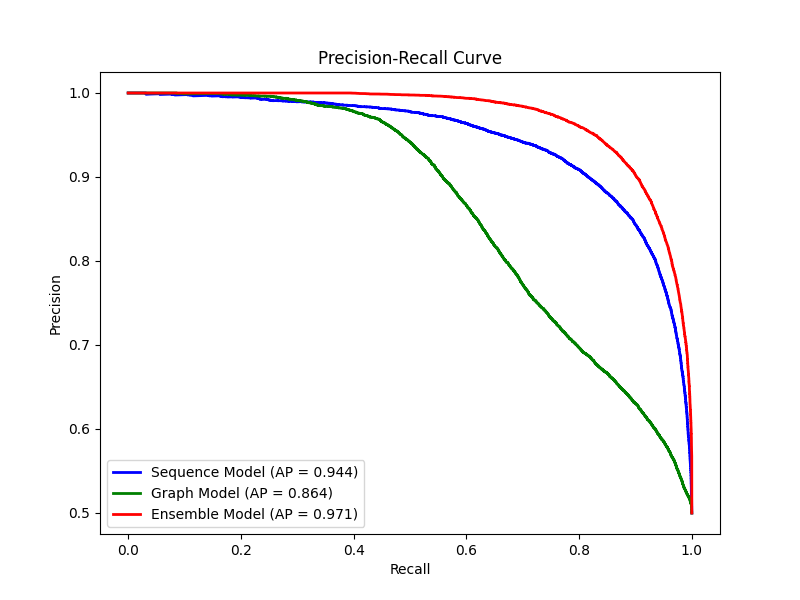
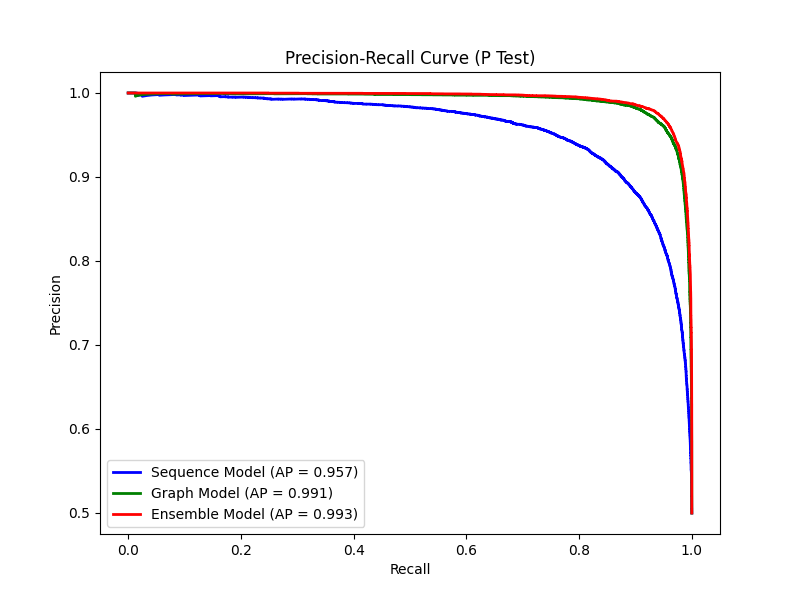
fix(train): rebuild graph with all positive edges for transductive link prediction

diff --git a/src/training/train_graph_model.py b/src/training/train_graph_model.py
@@ -12,7 +12,7 @@ sys.path.append(os.path.abspath(os.path.join(os.path.dirname(__file__), '../../'
 from src.models.graph_model import GATLinkPredictor
 from src.utils.paths import PROCESSED_DATA_DIR, PROJECT_ROOT, CHECKPOINT_DIR, MODELS_DIR
 
-CHECKPOINT_VERSION = "v2_encode_once"
+CHECKPOINT_VERSION = "v3_full_graph"
 
 
 def get_model_config(vram_gb: float) -> dict:
@@ -24,40 +24,58 @@ def get_model_config(vram_gb: float) -> dict:
         return {"hidden_channels": 64, "heads": 4, "dropout": 0.3, "profile": "small"}
 
 
-def drop_edge(edge_index: torch.Tensor, drop_rate: float = 0.4) -> torch.Tensor:
-    """Randomly drop edges from the message-passing graph for regularization."""
+def drop_edge(edge_index: torch.Tensor, drop_rate: float = 0.3) -> torch.Tensor:
     mask = torch.rand(edge_index.size(1), device=edge_index.device) > drop_rate
     return edge_index[:, mask]
 
 
-def build_positive_edge_index(train_df, node_mapping, device):
-    """Build message-passing graph from ONLY positive training interactions."""
-    pos_df = train_df[train_df["label"] == 1]
-    mp_src, mp_dst = [], []
-    for _, row in pos_df.iterrows():
-        p1, p2 = row["protein1"], row["protein2"]
-        if p1 in node_mapping and p2 in node_mapping:
-            u, v = node_mapping[p1], node_mapping[p2]
-            mp_src.extend([u, v])
-            mp_dst.extend([v, u])
-    return torch.tensor([mp_src, mp_dst], dtype=torch.long, device=device)
+def build_complete_positive_graph(node_mapping):
+    """
+    Build message-passing graph from ALL positive interactions across all splits.
+    
+    This is standard transductive link prediction:
+    - Graph structure includes all known interactions
+    - Supervision edges (train/val) are separate
+    - Model learns to distinguish real interactions from random pairs
+    """
+    all_src, all_dst = [], []
+    seen = set()
+
+    for csv_name in ["train.csv", "val.csv", "test.csv"]:
+        path = PROCESSED_DATA_DIR / csv_name
+        if path.exists():
+            df = pd.read_csv(path)
+            pos_df = df[df["label"] == 1]
+            for _, row in pos_df.iterrows():
+                p1, p2 = row["protein1"], row["protein2"]
+                if p1 in node_mapping and p2 in node_mapping:
+                    u, v = node_mapping[p1], node_mapping[p2]
+                    pair = (min(u, v), max(u, v))
+                    if pair not in seen:
+                        seen.add(pair)
+                        all_src.extend([u, v])
+                        all_dst.extend([v, u])
+
+    edge_index = torch.tensor([all_src, all_dst], dtype=torch.long)
+    print(f"  Complete graph: {len(seen)} undirected edges "
+          f"({edge_index.size(1)} directed)")
+    return edge_index
 
 
 def train(epochs: int = 100, lr: float = 0.001, graph_path: str = None,
           edge_batch_size: int = 16384):
     """
-    Train GAT Link Predictor.
+    Train GAT Link Predictor (transductive link prediction).
 
-    Key design decisions:
-    1. Graph cleaned to positive-only edges (old pipeline included negatives)
-    2. Encode ALL nodes ONCE per epoch (not 40x per batch)
-    3. DropEdge prevents trivial detection of direct edges
-    4. Gradient accumulation: classifier gradients accumulated across batches,
-       then back-propagated through encoder in one pass
+    Key design:
+    1. Message-passing graph uses ALL positive edges from train+val+test
+       (standard transductive setup — graph structure is fully known)
+    2. Supervision edges split into train/val for classifier training
+    3. DropEdge regularization prevents trivial edge detection
+    4. Encode ALL nodes ONCE per epoch, batch the edge scoring
     """
     device = torch.device("cuda" if torch.cuda.is_available() else "cpu")
 
-    # ── GPU config ───────────────────────────────────────────────────────
     if device.type == "cuda":
         total_mem_gb = torch.cuda.get_device_properties(0).total_memory / (1024 ** 3)
         gpu_name = torch.cuda.get_device_name(0)
@@ -87,35 +105,34 @@ def train(epochs: int = 100, lr: float = 0.001, graph_path: str = None,
         return
 
     data = torch.load(graph_path, weights_only=False)
-    original_edges = data.num_edges
-    print(f"Loaded graph: {data.num_nodes} nodes, {original_edges} edges")
+    print(f"Loaded graph: {data.num_nodes} nodes, {data.num_edges} edges")
 
-    # ── Load splits and mapping ──────────────────────────────────────────
-    print("Loading datasets...")
-    train_df = pd.read_csv(PROCESSED_DATA_DIR / "train.csv")
-    val_df = pd.read_csv(PROCESSED_DATA_DIR / "val.csv")
-
+    # ── Load mapping ─────────────────────────────────────────────────────
     mapping_path = str(graph_path).replace(".pt", "_mapping.pt")
     if not os.path.exists(mapping_path):
         print("Node mapping not found.")
         return
     node_mapping = torch.load(mapping_path, weights_only=False)
 
-    # ── Rebuild graph: positive-only edges ───────────────────────────────
-    clean_edge_index = build_positive_edge_index(train_df, node_mapping, "cpu")
-    data.edge_index = clean_edge_index
+    # ── Rebuild graph with ALL positive edges (transductive) ─────────────
+    print("Building complete positive graph from all splits...")
+    clean_edge_index = build_complete_positive_graph(node_mapping)
 
-    if clean_edge_index.size(1) != original_edges:
-        print(f"  Cleaned graph: {clean_edge_index.size(1)} edges "
-              f"(removed {original_edges - clean_edge_index.size(1)} negative edges)")
+    if clean_edge_index.size(1) != data.num_edges:
+        print(f"  Updated: {data.num_edges} -> {clean_edge_index.size(1)} edges")
+        data.edge_index = clean_edge_index
         torch.save(data, graph_path)
-        print(f"  Saved cleaned graph → {graph_path}")
+        print(f"  Saved updated graph -> {graph_path}")
     else:
-        print(f"  Graph already clean: {clean_edge_index.size(1)} edges")
+        print(f"  Graph already correct: {data.num_edges} edges")
 
     data = data.to(device)
 
-    # ── Build supervision edge indices ───────────────────────────────────
+    # ── Load splits ──────────────────────────────────────────────────────
+    print("Loading supervision edges...")
+    train_df = pd.read_csv(PROCESSED_DATA_DIR / "train.csv")
+    val_df = pd.read_csv(PROCESSED_DATA_DIR / "val.csv")
+
     def get_edge_label_index(df):
         src, dst, labels = [], [], []
         for _, row in df.iterrows():
@@ -140,7 +157,7 @@ def train(epochs: int = 100, lr: float = 0.001, graph_path: str = None,
     num_val_batches = (num_val + edge_batch_size - 1) // edge_batch_size
 
     print(f"Supervision: {num_train} train / {num_val} val edges")
-    print(f"Edge batch size: {edge_batch_size} → {num_train_batches} train batches")
+    print(f"Edge batch size: {edge_batch_size} -> {num_train_batches} train batches")
 
     # ── Model ────────────────────────────────────────────────────────────
     model = GATLinkPredictor(
@@ -172,13 +189,13 @@ def train(epochs: int = 100, lr: float = 0.001, graph_path: str = None,
     checkpoint_path = CHECKPOINT_DIR / "graph_checkpoint.pt"
     start_epoch = 0
     best_val_loss = float("inf")
-    patience = 15
+    patience = 10
     epochs_no_improve = 0
 
     if checkpoint_path.exists():
         ckpt = torch.load(checkpoint_path, map_location=device, weights_only=False)
         if ckpt.get("version") != CHECKPOINT_VERSION:
-            print("Old checkpoint detected (incompatible procedure). Starting fresh.")
+            print("Old checkpoint (incompatible version). Starting fresh.")
         else:
             try:
                 model.load_state_dict(ckpt["model_state_dict"])
@@ -186,8 +203,7 @@ def train(epochs: int = 100, lr: float = 0.001, graph_path: str = None,
                 start_epoch = ckpt["epoch"] + 1
                 best_val_loss = ckpt.get("best_val_loss", float("inf"))
                 epochs_no_improve = ckpt.get("epochs_no_improve", 0)
-                print(f"Resumed at epoch {start_epoch}/{epochs} | "
-                      f"Best: {best_val_loss:.4f}")
+                print(f"Resumed at epoch {start_epoch}/{epochs} | Best: {best_val_loss:.4f}")
             except RuntimeError:
                 print("Checkpoint weights incompatible. Starting fresh.")
     else:
@@ -198,7 +214,7 @@ def train(epochs: int = 100, lr: float = 0.001, graph_path: str = None,
         return
 
     best_model_path = MODELS_DIR / "graph_model_best.pth"
-    DROP_RATE = 0.4
+    DROP_RATE = 0.3
 
     # ── Training Loop ────────────────────────────────────────────────────
     print(f"\nStarting training (DropEdge={DROP_RATE}, LR={lr})...\n")
@@ -207,19 +223,18 @@ def train(epochs: int = 100, lr: float = 0.001, graph_path: str = None,
         model.train()
         optimizer.zero_grad()
 
-        # 1. DropEdge: randomly mask edges for regularization
+        # 1. DropEdge regularization
         dropped_ei = drop_edge(data.edge_index, drop_rate=DROP_RATE)
 
-        # 2. Encode ALL nodes ONCE per epoch (with gradients tracked)
+        # 2. Encode ALL nodes ONCE
         z = model.encode(data.x, dropped_ei)
         z_clf = z.detach().requires_grad_(True)
 
-        # 3. Shuffle training edges
+        # 3. Shuffle and batch supervision edges
         perm = torch.randperm(num_train, device=device)
         eli_shuf = train_eli[:, perm]
         lbl_shuf = train_labels[perm]
 
-        # 4. Score edges in batches, accumulate classifier gradients
         total_loss = 0.0
         pbar = tqdm(
             range(num_train_batches),
@@ -232,18 +247,16 @@ def train(epochs: int = 100, lr: float = 0.001, graph_path: str = None,
             e = min(s + edge_batch_size, num_train)
 
             out = model.decode(z_clf, eli_shuf[:, s:e])
-            # Scale loss for correct gradient magnitude with accumulation
             loss = criterion(out.squeeze(), lbl_shuf[s:e]) / num_train_batches
             loss.backward()
 
-            total_loss += loss.item() * num_train_batches  # Unscale for logging
+            total_loss += loss.item() * num_train_batches
             pbar.set_postfix(loss=f"{loss.item() * num_train_batches:.4f}")
 
-        # 5. Back-propagate accumulated gradients through encoder
+        # 4. Backprop through encoder
         if z_clf.grad is not None:
             z.backward(z_clf.grad)
 
-        # 6. Clip and step once per epoch
         torch.nn.utils.clip_grad_norm_(model.parameters(), max_norm=1.0)
         optimizer.step()
 
@@ -273,7 +286,6 @@ def train(epochs: int = 100, lr: float = 0.001, graph_path: str = None,
         scheduler.step()
         current_lr = optimizer.param_groups[0]["lr"]
 
-        # ── Epoch summary ────────────────────────────────────────────────
         print(
             f"\nEpoch [{epoch + 1}/{epochs}] | "
             f"Train: {avg_train_loss:.4f} | "
@@ -288,17 +300,15 @@ def train(epochs: int = 100, lr: float = 0.001, graph_path: str = None,
             f"{epochs - epoch - 1} remaining"
         )
 
-        # ── Save best model ─────────────────────────────────────────────
         if avg_val_loss < best_val_loss:
             best_val_loss = avg_val_loss
             epochs_no_improve = 0
             torch.save(model.state_dict(), best_model_path)
-            print(f"  ✓ New best model → {best_model_path}")
+            print(f"  ✓ New best model -> {best_model_path}")
         else:
             epochs_no_improve += 1
             print(f"  No improvement {epochs_no_improve}/{patience}")
 
-        # ── Checkpoint ───────────────────────────────────────────────────
         torch.save({
             "version": CHECKPOINT_VERSION,
             "epoch": epoch,
@@ -310,9 +320,8 @@ def train(epochs: int = 100, lr: float = 0.001, graph_path: str = None,
         }, checkpoint_path)
         print(f"  ✓ Checkpoint saved")
 
-        # ── Early stopping ───────────────────────────────────────────────
         if epochs_no_improve >= patience:
-            print(f"\n  ✗ Early stopping after {patience} epochs")
+            print(f"\n  Early stopping after {patience} epochs")
             break
 
         if device.type == "cuda":
